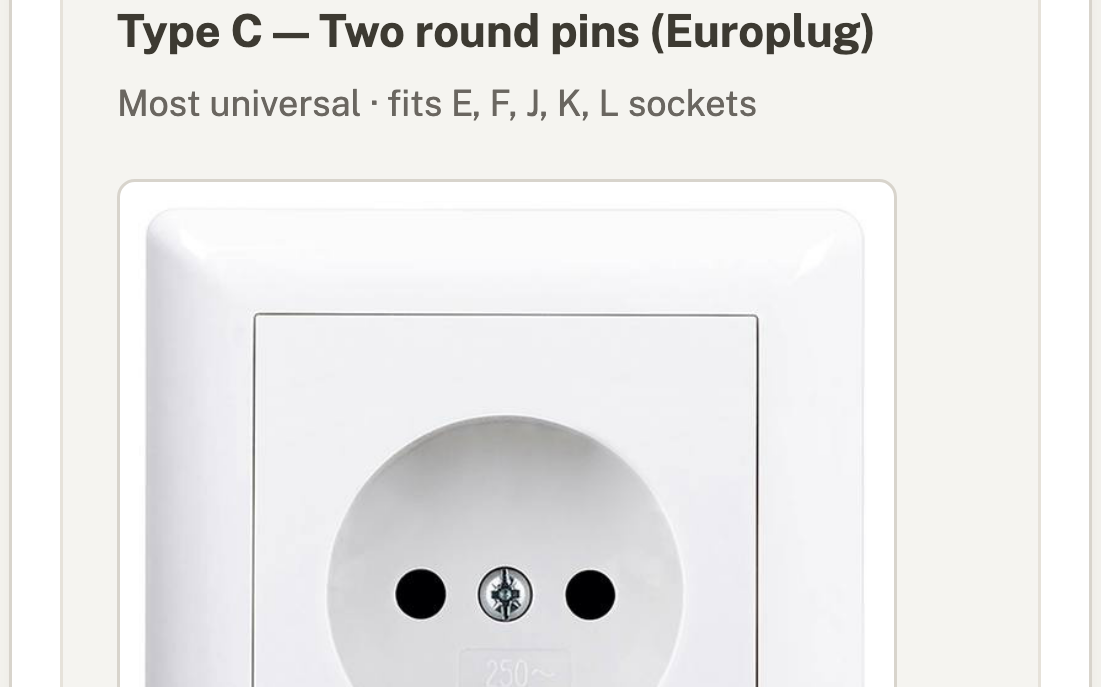
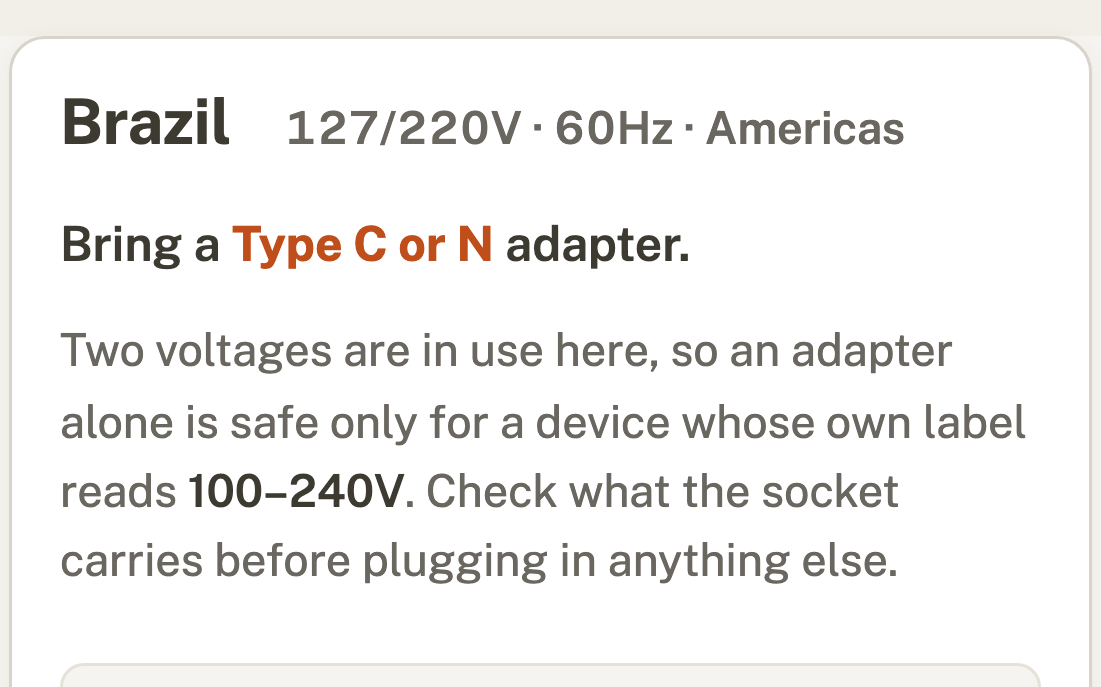
Landing carousel: every screenshot matches the real page, nothing hidden
Owner: "has to match the page!!"

- The plug screens were cropped so tightly onto the socket photo that they
  read as a stock product picture with no page around them. Recaptured from
  the result card's own top edge, so the crop carries the country, the
  voltage and the "Bring a Type C or E adapter" answer.
- wtg-4 had been captured with the "Search city" field hidden via
  display:none. Recaptured from the unmodified page with a preset tapped.
- Recorded the rule in the shared capture note: a capture may only do what a
  READER can do (search, tap, tick, scroll). Never hide, restyle or trim the
  page to make a crop read better -- move the crop or fix the page.

diff --git a/Travel-Website/index.html b/Travel-Website/index.html
@@ -3379,6 +3379,19 @@ window.lpGuideCard = function (href, flag, name, extra) {
      page, never by hand-editing a file — see each origin page's own capture
      notes below.
 
+     A SCREENSHOT MATCHES THE PAGE, ALWAYS (owner rule 2026-08-21: "has to
+     match the page!!"). Nothing is hidden, restyled, moved or faked to make a
+     crop read better — no display:none on a control that is in the reader's
+     way, no trimmed paragraph, no widened column. The only things a capture
+     may do are the things a READER can do: search a place, tap a preset,
+     tick a checkbox, set a number, scroll. If a crop looks wrong, move the
+     crop or fix the PAGE — never dress the page up for the photo. Two
+     versions of this shipped and both were rejected: a plug shot cropped so
+     tightly onto the socket photo that it read as a stock product picture
+     with no page around it, and a When to Go shot taken with the "Search
+     city" field hidden. The picture has to be something the reader will
+     actually see.
+
      A DESKTOP EQUIVALENT SITS DIRECTLY ABOVE, right before this comment's
      <section> (owner rule 2026-08-21: "make sure the desktop have something
      equivalent in mobile"). It is the mirror image of Best Of's own two-way
@@ -3440,10 +3453,8 @@ window.lpGuideCard = function (href, flag, name, extra) {
      tools). Time Zones: search a city, the whole grid re-sorts against it
      with ±hr badges (green ahead, red behind) — crop #grid, then the region/
      sort pill row. When to Go: set a month and temperature, crop the results
-     header + first cards; wtg-4 hides the plain "Search city" text field
-     before capture (set its .cf-block to display:none) so the crop reads Try
-     presets -> Month -> sliders -> Rainfall without a boring form control
-     breaking up the flow. Before You Go opens EMPTY by design (Thirtieth
+     header + first cards; wtg-4 taps a preset ("Beach weather") and crops the
+     preset row + month grid. Before You Go opens EMPTY by design (Thirtieth
      non-negotiable), so its shot is taken mid-use: type a city into #byg-find,
      click the .sa-row suggestion, crop each card's own top edge. Lisbon and
      Tokyo are only the examples in every screen below; any city works, and
